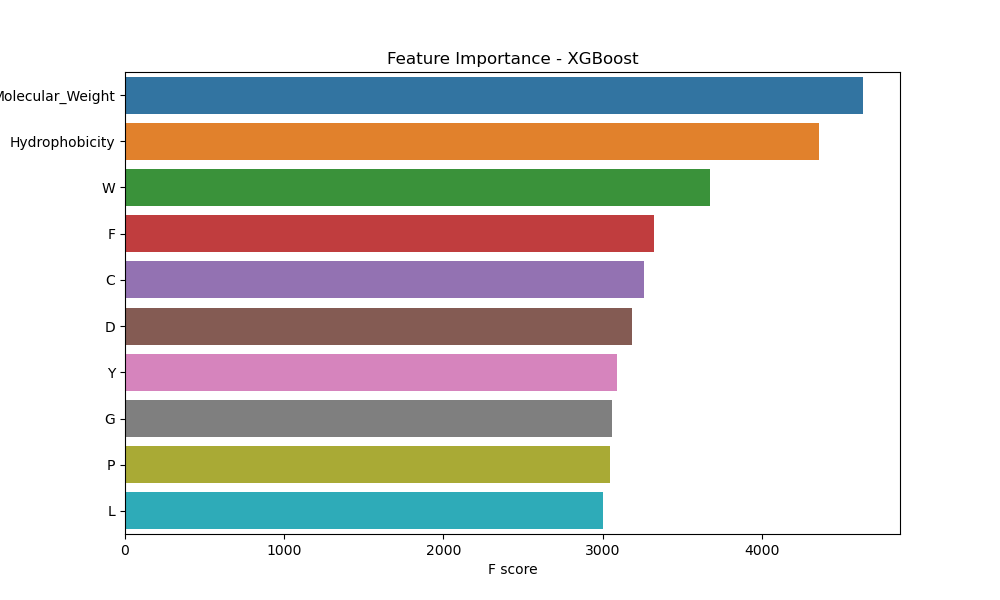
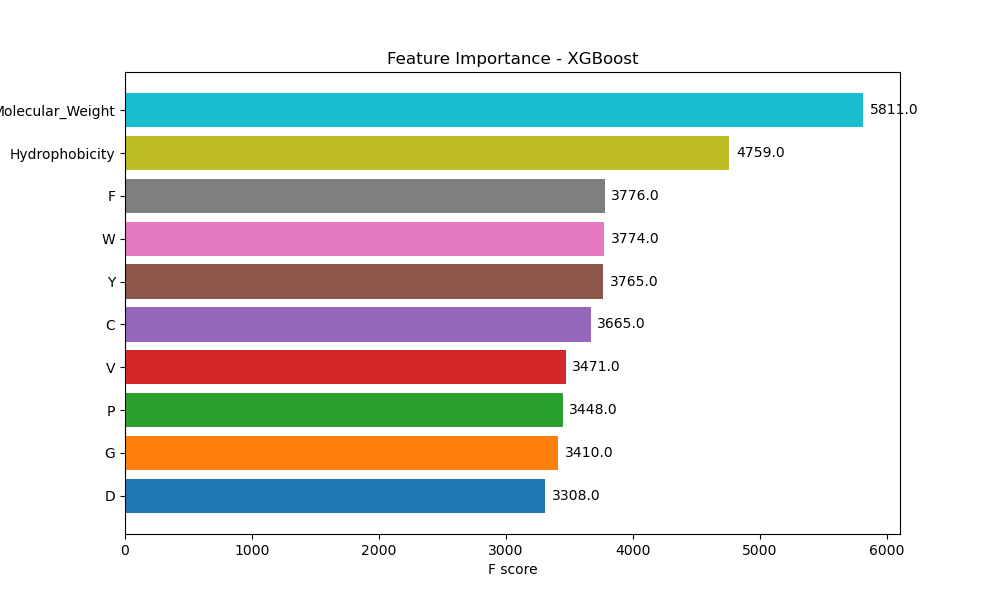
Updated train_model.py with feature selection and optimized XGBoost

diff --git a/scripts/train_model.py b/scripts/train_model.py
@@ -4,10 +4,12 @@ import numpy as np
 import pandas as pd
 import matplotlib.pyplot as plt
 import seaborn as sns
+import matplotlib.cm as cm  # Import colormap utilities
 from sklearn.model_selection import train_test_split
+from sklearn.ensemble import RandomForestClassifier
+from xgboost import XGBClassifier
 from sklearn.metrics import accuracy_score, classification_report, confusion_matrix
-from imblearn.over_sampling import BorderlineSMOTE  # More controlled oversampling
-import xgboost as xgb
+from imblearn.over_sampling import SMOTE  
 
 # Ensure output directory exists
 output_dir = "outputs"
@@ -27,34 +29,33 @@ y = df["Label"]
 # Split into training and testing sets (80% train, 20% test)
 X_train, X_test, y_train, y_test = train_test_split(X, y, test_size=0.2, random_state=42, stratify=y)
 
-# **Fix Imbalance: Use Borderline-SMOTE (safer than ADASYN)**
-smote = BorderlineSMOTE(sampling_strategy=0.3, random_state=42, kind="borderline-1")
+# **Fix Imbalance: Apply Moderate SMOTE**
+smote = SMOTE(sampling_strategy=0.3, random_state=42)  # Oversample to 30%
 X_train_balanced, y_train_balanced = smote.fit_resample(X_train, y_train)
 
-print(f"Class distribution after Borderline-SMOTE: {np.bincount(y_train_balanced)}")
+print(f"Class distribution after SMOTE: {np.bincount(y_train_balanced)}")
 
-# **Train XGBoost Classifier with Class Weighting**
-xgb_model = xgb.XGBClassifier(n_estimators=200,
-                              max_depth=10,
-                              scale_pos_weight=(y_train == 0).sum() / (y_train == 1).sum(),  # Balancing classes
-                              use_label_encoder=False,
-                              eval_metric="logloss",
-                              random_state=42)
-
+# **Train an Optimized XGBoost Model**
+xgb_model = XGBClassifier(n_estimators=200, 
+                          max_depth=10, 
+                          learning_rate=0.1,
+                          scale_pos_weight=len(y_train_balanced[y_train_balanced == 0]) / len(y_train_balanced[y_train_balanced == 1]),
+                          use_label_encoder=False,
+                          eval_metric="logloss",
+                          n_jobs=-1,  
+                          random_state=42)
 xgb_model.fit(X_train_balanced, y_train_balanced)
 
-# **Make predictions with threshold tuning**
-y_pred_proba = xgb_model.predict_proba(X_test)[:, 1]  # Get probability scores
-threshold = 0.6  # Increase threshold to reduce false positives
-y_pred_xgb = (y_pred_proba > threshold).astype(int)
+# Make Predictions
+y_pred_xgb = xgb_model.predict(X_test)
 
 # Evaluate the XGBoost model
 accuracy_xgb = accuracy_score(y_test, y_pred_xgb)
 print(f"XGBoost Accuracy: {accuracy_xgb:.2f}")
 print("Classification Report:\n", classification_report(y_test, y_pred_xgb))
 
-# **Confusion Matrix - XGBoost**
-plt.figure(figsize=(6,5))
+# Confusion Matrix - XGBoost
+plt.figure(figsize=(6, 5))
 sns.heatmap(confusion_matrix(y_test, y_pred_xgb), annot=True, cmap="coolwarm", fmt="d",
             xticklabels=["Non-Enzyme", "Enzyme"], yticklabels=["Non-Enzyme", "Enzyme"])
 plt.xlabel("Predicted")
@@ -63,32 +64,25 @@ plt.title("Confusion Matrix - XGBoost")
 plt.savefig(os.path.join(output_dir, "confusion_matrix_xgb.png"))
 plt.close()  
 
-# **Feature Importance**
+# **Feature Importance Analysis**
 feature_importance = xgb_model.get_booster().get_score(importance_type="weight")
-sorted_features = sorted(feature_importance.items(), key=lambda x: x[1], reverse=True)
-important_features = [feat for feat, _ in sorted_features[:10]]  # Top 10 features
+important_features = sorted(feature_importance, key=feature_importance.get, reverse=True)[:10]
 
-# **Plot Feature Importance**
-plt.figure(figsize=(10,6))
-sns.barplot(x=[feature_importance[f] for f in important_features], y=important_features)
+# Reduce dataset to important features
+X_train_selected = X_train_balanced[important_features]
+X_test_selected = X_test[important_features]
+
+# Plot Feature Importance
+plt.figure(figsize=(10, 6))
+colors = cm.get_cmap('tab10', len(important_features)).colors  # Corrected color mapping
+plt.barh(important_features[::-1], [feature_importance[f] for f in important_features[::-1]], color=colors)
+for i, v in enumerate([feature_importance[f] for f in important_features[::-1]]):
+    plt.text(v + 50, i, f"{v:.1f}", va="center")  # Annotate bars
 plt.xlabel("F score")
 plt.ylabel("Features")
 plt.title("Feature Importance - XGBoost")
 plt.savefig(os.path.join(output_dir, "feature_importance_xgb.png"))
 plt.close()
-
-# **Reduce dataset to important features**
-X_train_selected = X_train_balanced[important_features]
-X_test_selected = X_test[important_features]
-
-# **Retrain XGBoost with selected features**
-xgb_model.fit(X_train_selected, y_train_balanced)
-y_pred_selected = (xgb_model.predict_proba(X_test_selected)[:, 1] > threshold).astype(int)
-
-# Evaluate with selected features
-accuracy_selected = accuracy_score(y_test, y_pred_selected)
-print(f"XGBoost (Selected Features) Accuracy: {accuracy_selected:.2f}")
-print("Classification Report:\n", classification_report(y_test, y_pred_selected))
 
 # Close log file
 sys.stdout.close()
